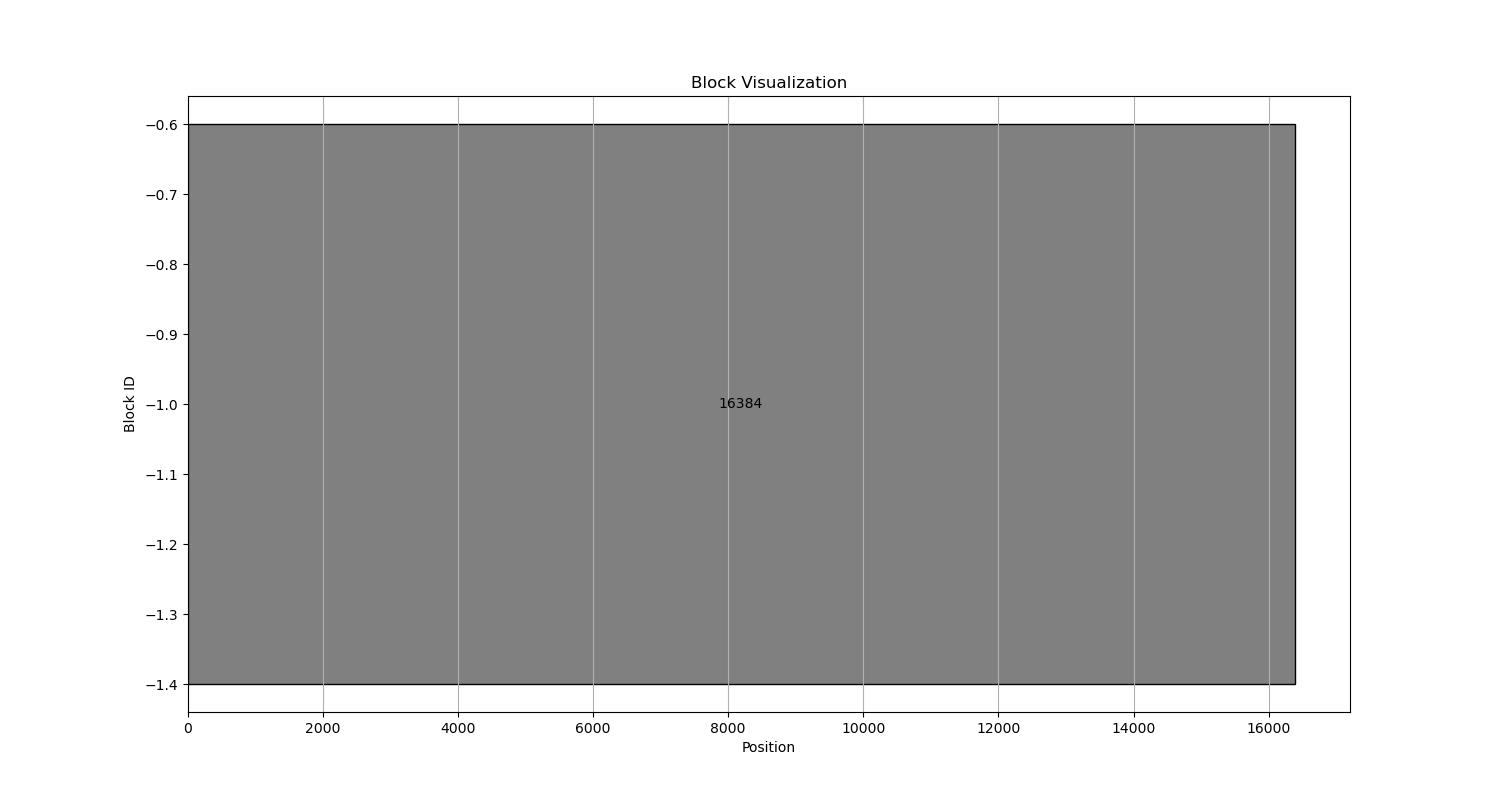
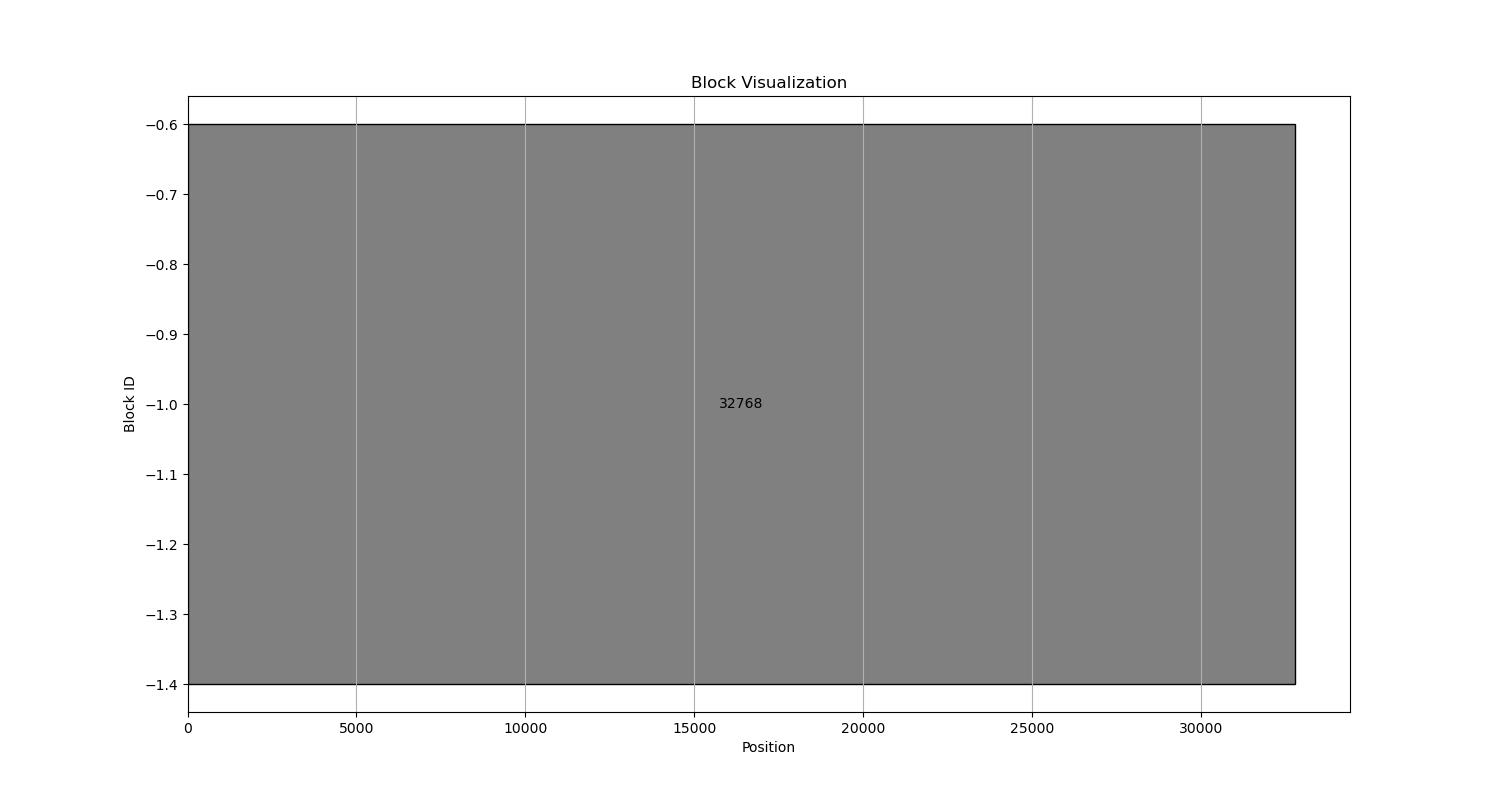
add c++

diff --git a/main.cpp b/main.cpp
@@ -1,0 +1,128 @@
+#include <iostream>
+#include <vector>
+#include <list>
+#include <set>
+#include <chrono> // for timing
+#include <sstream>
+#include <fstream>
+
+using namespace std;
+using namespace std::chrono;
+
+struct FreeBlock {
+    FreeBlock(size_t size) : id(-1), start(0), end(size), size(size) {}
+
+    int id;
+    size_t start;
+    size_t end;
+    size_t size;
+};
+
+struct UsedBlock {
+    UsedBlock(int id, size_t start, size_t end, size_t size)
+            : id(id), start(start), end(end), size(size) {}
+
+    int id;
+    size_t start;
+    size_t end;
+    size_t size;
+};
+
+
+struct UsedBlockComparator {
+    bool operator()(const UsedBlock &a, const UsedBlock &b) const {
+        return a.id < b.id;
+    }
+};
+
+class Allocator {
+public:
+    Allocator() : chunk_size(4096 * 4), chunk_load_count(0) {
+        freeBlocks.push_back(FreeBlock(chunk_size));
+    }
+
+    void print_stats() {
+        size_t in_use = 0;
+        for (const auto &block: usedBlocks) {
+            in_use += block.size;
+        }
+        size_t free_space = freeBlocks.front().size;
+        cout << "In use: " << in_use << " Free space: " << free_space << endl;
+        cout << "Chunk load count: " << chunk_load_count << endl;
+    }
+
+    void malloc(int id, size_t size) {
+        if (size > freeBlocks.front().size) {
+            freeBlocks.front().size += chunk_size;
+            freeBlocks.front().end += chunk_size;
+            chunk_load_count++;
+            malloc(id, size); // Recursive call after expanding
+            return;
+        }
+
+        UsedBlock used_block(id, freeBlocks.front().start + 1, freeBlocks.front().start + size, size);
+        usedBlocks.insert(used_block);
+
+        freeBlocks.front().size -= size;
+        freeBlocks.front().start += size;
+    }
+
+    void free(int id) {
+        auto it = usedBlocks.find(UsedBlock(id, 0, 0, 0)); // Search for the block
+        if (it == usedBlocks.end()) {
+            cout << "No such block" << endl;
+            return;
+        }
+
+        // Add to the free list (implementation omitted for brevity)
+        freeBlocks.push_back(FreeBlock(it->size));
+        usedBlocks.erase(it);
+    }
+
+private:
+    size_t chunk_size;
+    list<FreeBlock> freeBlocks;
+    set<UsedBlock, UsedBlockComparator> usedBlocks;
+    int chunk_load_count;
+};
+
+int main() {
+    Allocator allocator;
+
+    auto start_time = high_resolution_clock::now();
+
+    ifstream inputFile("./input.txt"); // Open the input file
+    if (!inputFile.is_open()) {
+        cerr << "Error opening input file." << endl;
+        return 1;
+    }
+
+    int epoch = 0;
+    string line;
+    while (getline(inputFile, line)) { // Read each line from the file
+        stringstream ss(line); // Use stringstream to parse the line
+        char action;
+        int id;
+        size_t size;
+        ss >> action >> id >> size;
+
+        if (action == 'a') {
+            allocator.malloc(id, size);
+        } else if (action == 'f') {
+            allocator.free(id);
+        }
+
+        cout << "epoch " << epoch << endl;
+        epoch++;
+    }
+
+    inputFile.close();
+
+    auto end_time = high_resolution_clock::now();
+    auto duration = duration_cast<microseconds>(end_time - start_time);
+
+    cout << "program run time: " << duration.count() / 1e6 << " sec" << endl; // Convert to seconds
+    allocator.print_stats();
+
+    return 0;
+}

diff --git a/allocator.py b/allocator.py
@@ -8,8 +8,8 @@ from memory_visualizer import MemoryVisualizer
 
 class Allocator:
     def __init__(self):
-        self.chunk_option = 16
-        self.tree_count_option = 1
+        self.chunk_option = 32
+        self.tree_count_option = 10000
         self.chunk_size = 1024 * self.chunk_option
         self.freeSpaceManager = FreeSpaceManager(self.chunk_size)
         self.arena = ArenaManager(self.tree_count_option)
